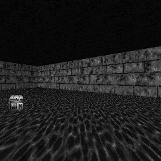
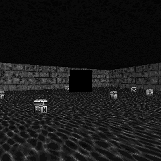
recording agent

Changed region(s): [[0.0, 0.2795, 1.0, 1.0]]

diff --git a/main.py b/main.py
@@ -1,3 +1,4 @@
+from typing import List
 from vizdoom import *
 
 import os
@@ -13,6 +14,7 @@ from rllte.xplore.reward import RND, E3B
 
 import gymnasium as gym
 from gymnasium import Env
+from gymnasium.wrappers import RecordVideo
 from gymnasium.utils.play import play as playing
 from gymnasium.spaces import Discrete, Box, Sequence
 
@@ -26,6 +28,15 @@ from stable_baselines3.common.evaluation import evaluate_policy
 
 CHECKPOINT_DIR = "./train/health_gathering"
 LOG_DIR = "./logs/log_health_gathering"
+# MODEL_NAME = f"./train/health_gathering_2_2048_grayscale_161x161/best_model_1370000"
+# MODEL_NAME = f"./train/health_gathering_3_4096_grayscale_161x161/best_model_970000"
+# MODEL_NAME = f"./train/health_gathering_4_4096_grayscale_101x101/best_model_820000"
+# MODEL_NAME = f"./train/health_gathering_6_4096_grayscale_161x161_glaucoma50/best_model_1220000"
+# MODEL_NAME = f"./train/health_gathering_7_4096_grayscale_161x161_glaucoma150/best_model_390000"
+# MODEL_NAME = f"./train/health_gathering_8_4096_grayscale_161x161_glaucoma100/best_model_300000"
+# MODEL_NAME = f"./train/health_gathering_9_4096_grayscale_161x161_glaucoma200/best_model_580000"
+MODEL_NAME = f"./train/health_gathering_10_4096_grayscale_161x161_glaucoma250/best_model_1030000"
+
 
 class VizDoomGym(Env):
     metadata = { "render_modes": ["human", "rgb_array"], "render_fps": 30 }
@@ -72,7 +83,7 @@ class VizDoomGym(Env):
         done = self.game.is_episode_finished()
         
         return img, reward, done, False, info
-    
+
     def render(self):
         state = self.game.get_state()
         if state:
@@ -102,6 +113,27 @@ class ImageTransformationWrapper(gym.ObservationWrapper):
         state = np.reshape(resize, (1, self.resized_shape[0], self.resized_shape[1]))
         return state
 
+class RenderWrapper(gym.Wrapper):
+    def __init__(self, env:gym.Env):
+        self.env = env
+        super(RenderWrapper, self).__init__(env)
+
+    def reset(self, seed=None, options=None):
+        observation, info = self.env.reset()
+        self.last_observation = observation
+        return observation, info
+
+    def step(self, action):
+        observation, reward, terminated, truncated, info = self.env.step(action)
+        self.last_observation = observation 
+        return observation, reward, terminated, truncated, info
+
+    def render(self):
+        to_render = np.moveaxis(self.last_observation, 0, -1)
+        if to_render.shape[-1] == 1:
+            to_render = np.repeat(to_render, 3, axis=2)
+        return to_render
+
 class GlaucomaWrapper(gym.Wrapper):
     def __init__(self, env:gym.Env, steps_with_hungry_to_glaucoma:int, steps_glaucoma_level:int, 
                  blidness_reward:float):
@@ -129,7 +161,6 @@ class GlaucomaWrapper(gym.Wrapper):
 
         self.last_medkits = 0
 
-    
     def reset(self, seed=None, options=None):
         self.blind = False
         self.steps_with_hungry = 0
@@ -258,13 +289,17 @@ class TrainAndLoggingCallback(BaseCallback):
 
 def make_env(render_mode=None):
     env = VizDoomGym(render_mode=render_mode)
-    # env = ImageTransformationWrapper(env, (161, 161))
-    # env = GlaucomaWrapper(env, 0, 150, -100)
+    env = ImageTransformationWrapper(env, (161, 161))
+    env = GlaucomaWrapper(env, 0, 250, -100)
+    if render_mode == "rgb_array":
+        env = RenderWrapper(env)
+        env = RecordVideo(env, video_folder="./videos", episode_trigger=lambda x: True)
     return env
+
 
 def play():
     env = make_env(render_mode="human")
-    model = PPO.load("./train/health_gathering/best_model_1850000.zip")
+    model = PPO.load(MODEL_NAME)
     model.rollout_buffer.rewards
     
     episodes = 5
@@ -282,9 +317,27 @@ def play():
         time.sleep(2)
 
     env.close()
+
+def record():
+    env = make_env(render_mode="rgb_array")
+    model = PPO.load(MODEL_NAME)
+    
+    episodes = 5
+    for episode in range(episodes):
+        total_reward = 0
+        finished = False
+        obs, _ = env.reset()
+        while not finished:
+            action, _ = model.predict(obs)
+            obs, reward, done, truncated, info = env.step(action)
+            total_reward += reward
+            finished = done or truncated
+        print(f"Total Reward for episode {episode} is {total_reward}.")
+
+    env.close()
     
 def evaluate():
-    model = PPO.load("./train/health_gathering/best_model_1850000.zip")
+    model = PPO.load(MODEL_NAME)
     
     env = make_env()
 
@@ -301,7 +354,7 @@ def train():
     irs = RND(envs, device=device)
     callback = TrainAndLoggingCallback(irs=irs, check_freq=10000, save_path=CHECKPOINT_DIR)
     
-    model = PPO("CnnPolicy", envs, tensorboard_log=LOG_DIR, learning_rate=0.0001, n_steps=2048)
+    model = PPO("CnnPolicy", envs, tensorboard_log=LOG_DIR, learning_rate=0.0001, n_steps=4096)
     
     model.learn(total_timesteps=2000000, callback=callback, progress_bar=True)
     
@@ -325,4 +378,5 @@ if __name__ == "__main__":
     # train()
     # evaluate()
     # play()
-    play_human()
+    record()
+    # play_human()
